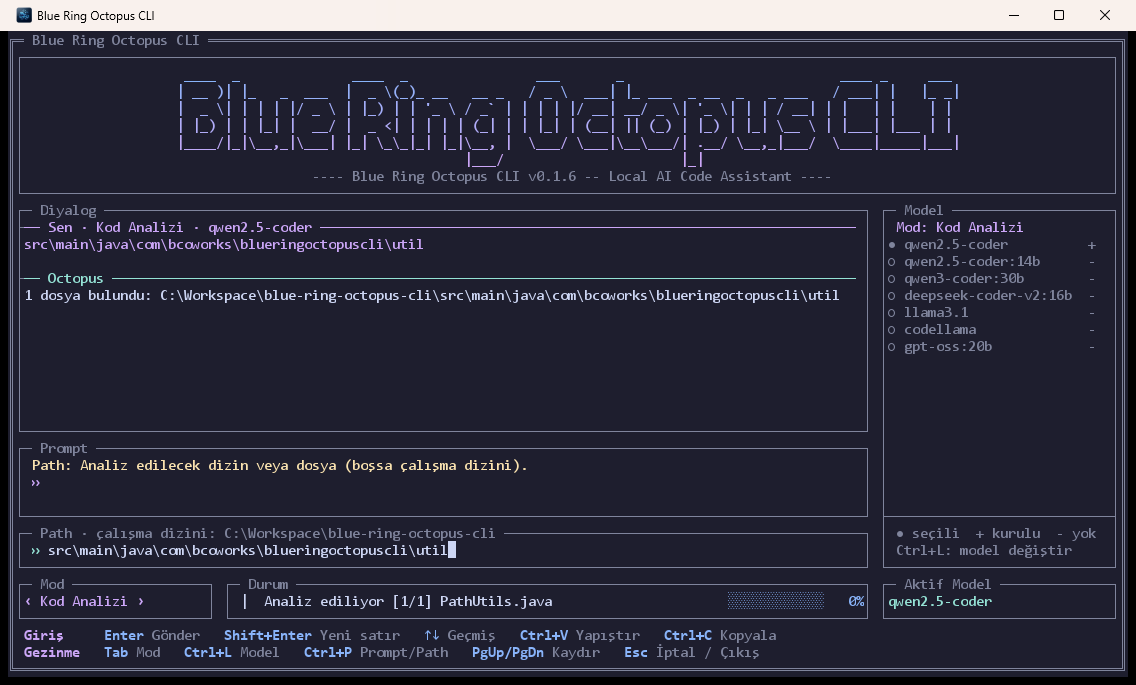
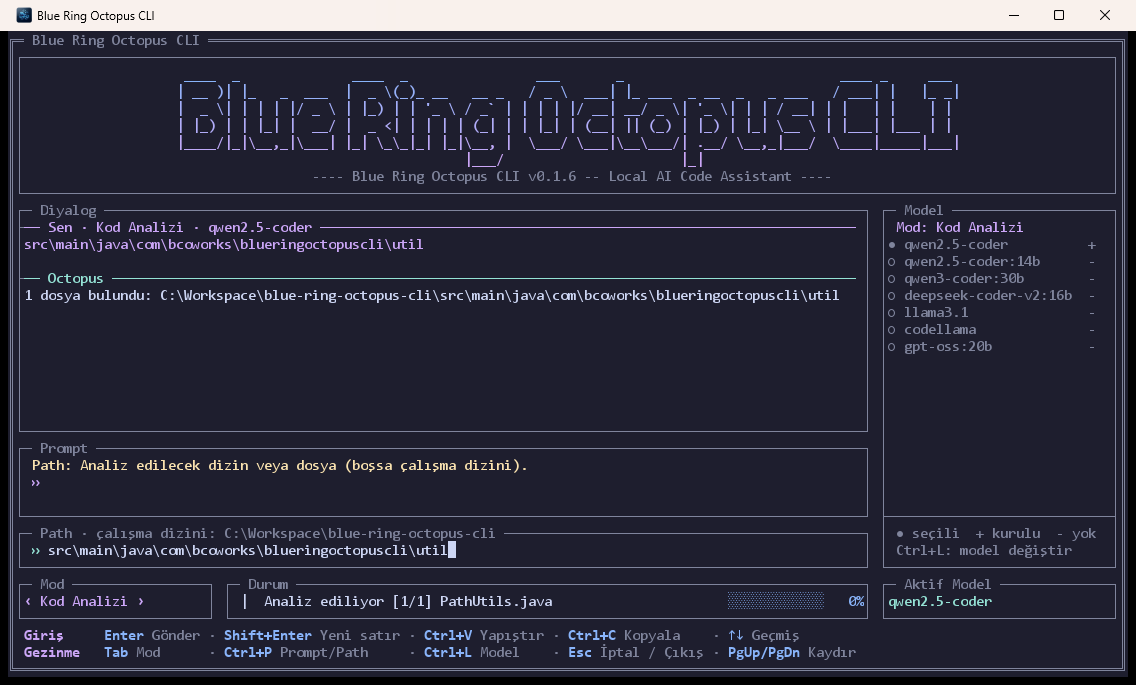
feat: align the key hint separators in columns across both rows
KeyHintBar is now one two-row component: the n-th hint sits in the same column on both rows, separated by ' · ', so the separators line up. Hints with similar widths share a column so the gaps stay even; on a narrow window whole columns are dropped. Screenshots retaken.

Changed region(s): [[0.154, 0.9197, 0.7394, 0.981]]

diff --git a/src/main/java/com/bcoworks/blueringoctopuscli/tui/KeyHintBar.java b/src/main/java/com/bcoworks/blueringoctopuscli/tui/KeyHintBar.java
@@ -6,12 +6,12 @@ import com.googlecode.lanterna.gui2.AbstractComponent;
 import com.googlecode.lanterna.gui2.ComponentRenderer;
 import com.googlecode.lanterna.gui2.TextGUIGraphics;
 
-import java.util.ArrayList;
 import java.util.List;
 
 /**
- * Tek satırlık kısayol çubuğu: solda grup adı, ardından "TUŞ açıklama" çiftleri. Tuşlar vurgulu, açıklamalar soluk
- * çizilir; çiftler boşlukla ayrılır. Dar pencerede metin ortadan kesilmez, sondaki (en az önemli) çiftler atlanır.
+ * Kısayol çubuğu: her satırın başında grup adı, ardından "TUŞ açıklama" çiftleri. Çiftler satırlar arasında sütunlara
+ * hizalanır (n. çift her satırda aynı sütundadır) ve " · " ile ayrılır, böylece ayraçlar alt alta gelir. Tuşlar vurgulu,
+ * açıklamalar soluk çizilir. Dar pencerede metin ortadan kesilmez, en sağdaki sütunlar atlanır.
  */
 final class KeyHintBar extends AbstractComponent<KeyHintBar> {
 
@@ -22,32 +22,47 @@ final class KeyHintBar extends AbstractComponent<KeyHintBar> {
         }
     }
 
+    record Row(String group, List<Hint> hints) {
+    }
+
     static final int GROUP_WIDTH = 10;
-    static final int GAP = 3;
+    static final String SEPARATOR = " · ";
 
-    private final String group;
-    private final List<Hint> hints;
+    private final List<Row> rows;
+    private final int[] columnWidths;
 
-    KeyHintBar(String group, List<Hint> hints) {
-        this.group = group;
-        this.hints = List.copyOf(hints);
+    KeyHintBar(List<Row> rows) {
+        this.rows = List.copyOf(rows);
+        this.columnWidths = columnWidths(this.rows);
     }
 
     /**
-     * Verilen genişliğe sığan çiftler, sıralarını koruyarak. Sığmayan ilk çiftten sonrası atlanır.
+     * Her sütunun genişliği: o sütundaki en geniş çift. Satırlarda çift sayısı farklı olabilir.
      */
-    static List<Hint> visible(List<Hint> hints, int width) {
-        List<Hint> shown = new ArrayList<>();
-        int used = 0;
-        for (Hint hint : hints) {
-            int needed = (shown.isEmpty() ? 0 : GAP) + hint.width();
-            if (used + needed > width) {
-                break;
+    static int[] columnWidths(List<Row> rows) {
+        int columns = rows.stream().mapToInt(row -> row.hints().size()).max().orElse(0);
+        int[] widths = new int[columns];
+        for (Row row : rows) {
+            for (int i = 0; i < row.hints().size(); i++) {
+                widths[i] = Math.max(widths[i], row.hints().get(i).width());
             }
-            shown.add(hint);
+        }
+        return widths;
+    }
+
+    /**
+     * Verilen genişliğe sığan sütun sayısı (soldan). Sığmayan ilk sütundan sonrası atlanır.
+     */
+    static int visibleColumns(int[] widths, int available) {
+        int used = 0;
+        for (int i = 0; i < widths.length; i++) {
+            int needed = (i == 0 ? 0 : SEPARATOR.length()) + widths[i];
+            if (used + needed > available) {
+                return i;
+            }
             used += needed;
         }
-        return shown;
+        return widths.length;
     }
 
     @Override
@@ -59,7 +74,7 @@ final class KeyHintBar extends AbstractComponent<KeyHintBar> {
 
         @Override
         public TerminalSize getPreferredSize(KeyHintBar component) {
-            return new TerminalSize(40, 1);
+            return new TerminalSize(40, rows.size());
         }
 
         @Override
@@ -67,28 +82,33 @@ final class KeyHintBar extends AbstractComponent<KeyHintBar> {
             graphics.setBackgroundColor(OctopusTheme.BASE);
             graphics.fill(' ');
 
-            int x = 1;
-            graphics.setForegroundColor(OctopusTheme.MAUVE);
-            graphics.enableModifiers(SGR.BOLD);
-            graphics.putString(x, 0, group);
-            graphics.disableModifiers(SGR.BOLD);
-            x += GROUP_WIDTH;
-
-            int available = graphics.getSize().getColumns() - x;
-            boolean first = true;
-            for (Hint hint : visible(hints, available)) {
-                if (!first) {
-                    x += GAP;
-                }
-                first = false;
-                graphics.setForegroundColor(OctopusTheme.BLUE);
+            int start = 1 + GROUP_WIDTH;
+            int visible = visibleColumns(columnWidths, graphics.getSize().getColumns() - start);
+            for (int y = 0; y < rows.size(); y++) {
+                Row row = rows.get(y);
+                graphics.setForegroundColor(OctopusTheme.MAUVE);
                 graphics.enableModifiers(SGR.BOLD);
-                graphics.putString(x, 0, hint.key());
+                graphics.putString(1, y, row.group());
                 graphics.disableModifiers(SGR.BOLD);
-                x += hint.key().length() + 1;
-                graphics.setForegroundColor(OctopusTheme.MUTED);
-                graphics.putString(x, 0, hint.label());
-                x += hint.label().length();
+
+                int x = start;
+                for (int column = 0; column < visible; column++) {
+                    if (column > 0) {
+                        graphics.setForegroundColor(OctopusTheme.MUTED);
+                        graphics.putString(x, y, SEPARATOR);
+                        x += SEPARATOR.length();
+                    }
+                    if (column < row.hints().size()) {
+                        Hint hint = row.hints().get(column);
+                        graphics.setForegroundColor(OctopusTheme.BLUE);
+                        graphics.enableModifiers(SGR.BOLD);
+                        graphics.putString(x, y, hint.key());
+                        graphics.disableModifiers(SGR.BOLD);
+                        graphics.setForegroundColor(OctopusTheme.MUTED);
+                        graphics.putString(x + hint.key().length() + 1, y, hint.label());
+                    }
+                    x += columnWidths[column];
+                }
             }
         }
     }

diff --git a/src/test/java/com/bcoworks/blueringoctopuscli/tui/KeyHintBarTest.java b/src/test/java/com/bcoworks/blueringoctopuscli/tui/KeyHintBarTest.java
@@ -1,41 +1,52 @@
 package com.bcoworks.blueringoctopuscli.tui;
 
 import com.bcoworks.blueringoctopuscli.tui.KeyHintBar.Hint;
+import com.bcoworks.blueringoctopuscli.tui.KeyHintBar.Row;
 import org.junit.jupiter.api.Test;
 
 import java.util.List;
 
+import static org.junit.jupiter.api.Assertions.assertArrayEquals;
 import static org.junit.jupiter.api.Assertions.assertEquals;
 
 class KeyHintBarTest {
 
-    private static final List<Hint> HINTS = List.of(
-            new Hint("Enter", "Gönder"),          // 12
-            new Hint("Tab", "Mod"),               // 7
-            new Hint("Esc", "İptal / Çıkış"));    // 17
+    private static final List<Row> ROWS = List.of(
+            new Row("A", List.of(new Hint("Enter", "Gönder"), new Hint("Tab", "Mod"), new Hint("Esc", "İptal"))),
+            new Row("B", List.of(new Hint("Ctrl+L", "Model"), new Hint("PgUp/PgDn", "Kaydır"))));
 
     @Test
     void widthIsKeyPlusSpacePlusLabel() {
-        assertEquals(12, HINTS.get(0).width());
+        assertEquals(12, new Hint("Enter", "Gönder").width());
     }
 
     @Test
-    void showsEverythingWhenItFits() {
-        // 12 + 3 + 7 + 3 + 17 = 42
-        assertEquals(HINTS, KeyHintBar.visible(HINTS, 42));
-        assertEquals(HINTS, KeyHintBar.visible(HINTS, 100));
+    void columnWidthIsTheWidestHintOfThatColumnAcrossRows() {
+        // 1. sütun: "Enter Gönder" (12) ve "Ctrl+L Model" (12); 2. sütun: "Tab Mod" (7) ve "PgUp/PgDn Kaydır" (16);
+        // 3. sütun yalnızca ilk satırda: "Esc İptal" (9)
+        assertArrayEquals(new int[]{12, 16, 9}, KeyHintBar.columnWidths(ROWS));
     }
 
     @Test
-    void dropsTrailingHintsInsteadOfCuttingOne() {
-        assertEquals(HINTS.subList(0, 2), KeyHintBar.visible(HINTS, 41));
-        assertEquals(HINTS.subList(0, 2), KeyHintBar.visible(HINTS, 22));
-        assertEquals(HINTS.subList(0, 1), KeyHintBar.visible(HINTS, 21));
+    void noRowsMeansNoColumns() {
+        assertArrayEquals(new int[0], KeyHintBar.columnWidths(List.of()));
     }
 
     @Test
-    void showsNothingWhenEvenTheFirstDoesNotFit() {
-        assertEquals(List.of(), KeyHintBar.visible(HINTS, 11));
-        assertEquals(List.of(), KeyHintBar.visible(HINTS, 0));
+    void showsAllColumnsWhenTheyFit() {
+        // 12 + 3 + 16 + 3 + 9 = 43
+        int[] widths = {12, 16, 9};
+        assertEquals(3, KeyHintBar.visibleColumns(widths, 43));
+        assertEquals(3, KeyHintBar.visibleColumns(widths, 200));
+    }
+
+    @Test
+    void dropsTheRightmostColumnsInsteadOfCuttingOne() {
+        int[] widths = {12, 16, 9};
+        assertEquals(2, KeyHintBar.visibleColumns(widths, 42));
+        assertEquals(2, KeyHintBar.visibleColumns(widths, 31)); // 12 + 3 + 16
+        assertEquals(1, KeyHintBar.visibleColumns(widths, 30));
+        assertEquals(1, KeyHintBar.visibleColumns(widths, 12));
+        assertEquals(0, KeyHintBar.visibleColumns(widths, 11));
     }
 }

diff --git a/src/main/java/com/bcoworks/blueringoctopuscli/tui/MainWindow.java b/src/main/java/com/bcoworks/blueringoctopuscli/tui/MainWindow.java
@@ -326,28 +326,28 @@ final class MainWindow implements MouseSupport.Handler {
         statusRow.addComponent(stepBox);
         statusRow.addComponent(activeModelBox);
 
-        KeyHintBar keysLine1 = new KeyHintBar("Giriş", List.of(
-                new KeyHintBar.Hint("Enter", "Gönder"),
-                new KeyHintBar.Hint("Shift+Enter", "Yeni satır"),
-                new KeyHintBar.Hint("↑↓", "Geçmiş"),
-                new KeyHintBar.Hint("Ctrl+V", "Yapıştır"),
-                new KeyHintBar.Hint("Ctrl+C", "Kopyala")));
-        KeyHintBar keysLine2 = new KeyHintBar("Gezinme", List.of(
-                new KeyHintBar.Hint("Tab", "Mod"),
-                new KeyHintBar.Hint("Ctrl+L", "Model"),
-                new KeyHintBar.Hint("Ctrl+P", "Prompt/Path"),
-                new KeyHintBar.Hint("PgUp/PgDn", "Kaydır"),
-                new KeyHintBar.Hint("Esc", "İptal / Çıkış")));
-        keysLine1.setLayoutData(fill());
-        keysLine2.setLayoutData(fill());
+        KeyHintBar keyHints = new KeyHintBar(List.of(
+                // Sütunlar satırlar arasında hizalanır; benzer genişlikteki maddeler aynı sütuna konur ki boşluklar dengeli kalsın.
+                new KeyHintBar.Row("Giriş", List.of(
+                        new KeyHintBar.Hint("Enter", "Gönder"),
+                        new KeyHintBar.Hint("Shift+Enter", "Yeni satır"),
+                        new KeyHintBar.Hint("Ctrl+V", "Yapıştır"),
+                        new KeyHintBar.Hint("Ctrl+C", "Kopyala"),
+                        new KeyHintBar.Hint("↑↓", "Geçmiş"))),
+                new KeyHintBar.Row("Gezinme", List.of(
+                        new KeyHintBar.Hint("Tab", "Mod"),
+                        new KeyHintBar.Hint("Ctrl+P", "Prompt/Path"),
+                        new KeyHintBar.Hint("Ctrl+L", "Model"),
+                        new KeyHintBar.Hint("Esc", "İptal / Çıkış"),
+                        new KeyHintBar.Hint("PgUp/PgDn", "Kaydır")))));
+        keyHints.setLayoutData(fill());
 
         // --- uygulama çerçevesi
         Panel content = new Panel(linear(Direction.VERTICAL, 0));
         content.addComponent(bannerBox);
         content.addComponent(mainRow);
         content.addComponent(statusRow);
-        content.addComponent(keysLine1);
-        content.addComponent(keysLine2);
+        content.addComponent(keyHints);
         Border frame = content.withBorder(Borders.doubleLine(" Blue Ring Octopus CLI "));
 
         window.setHints(List.of(Window.Hint.FULL_SCREEN, Window.Hint.NO_DECORATIONS, Window.Hint.NO_POST_RENDERING));

diff --git a/CHANGELOG.md b/CHANGELOG.md
@@ -11,7 +11,8 @@ contain breaking changes.
 ### Changed
 
 - The key hints at the bottom of the window are redesigned: two rows (**Giriş** and **Gezinme**) with the keys
-  highlighted and fewer items. On a narrow window the last items are dropped instead of being cut in the middle.
+  highlighted, fewer items and " · " separators that line up in columns across both rows. On a narrow window the last
+  columns are dropped instead of being cut in the middle.
 
 ## [0.1.5] - 2026-10-06
 
